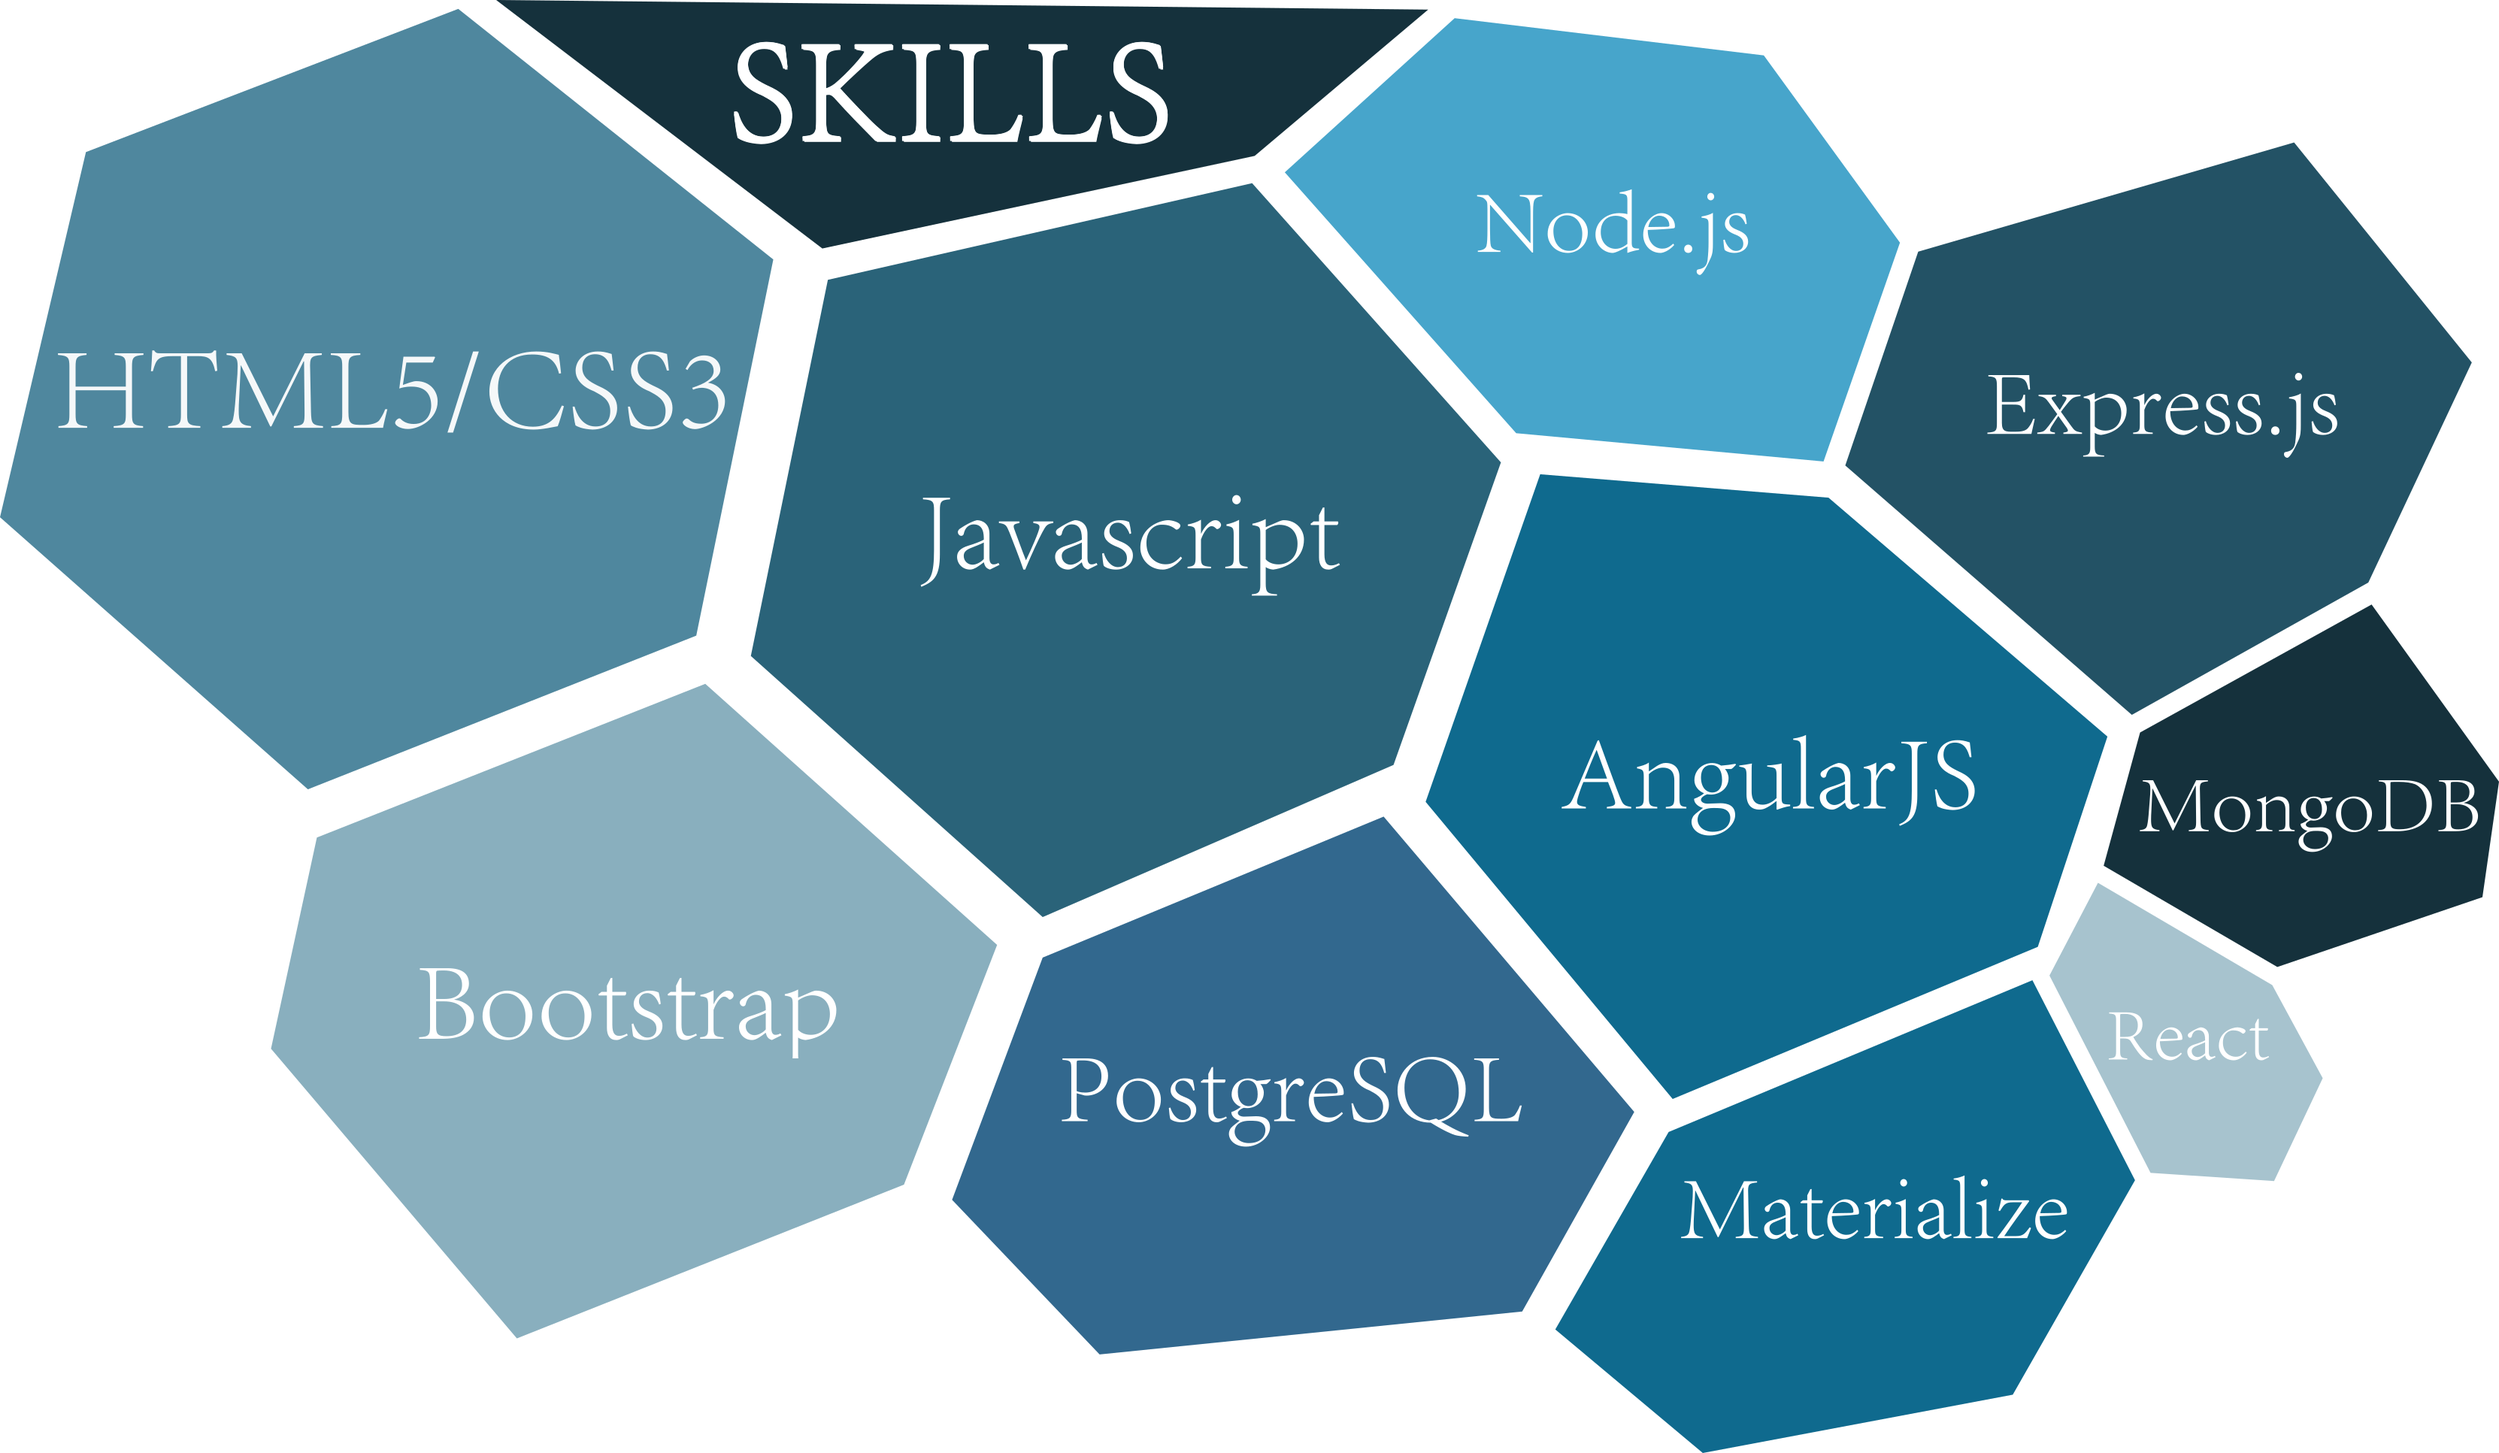
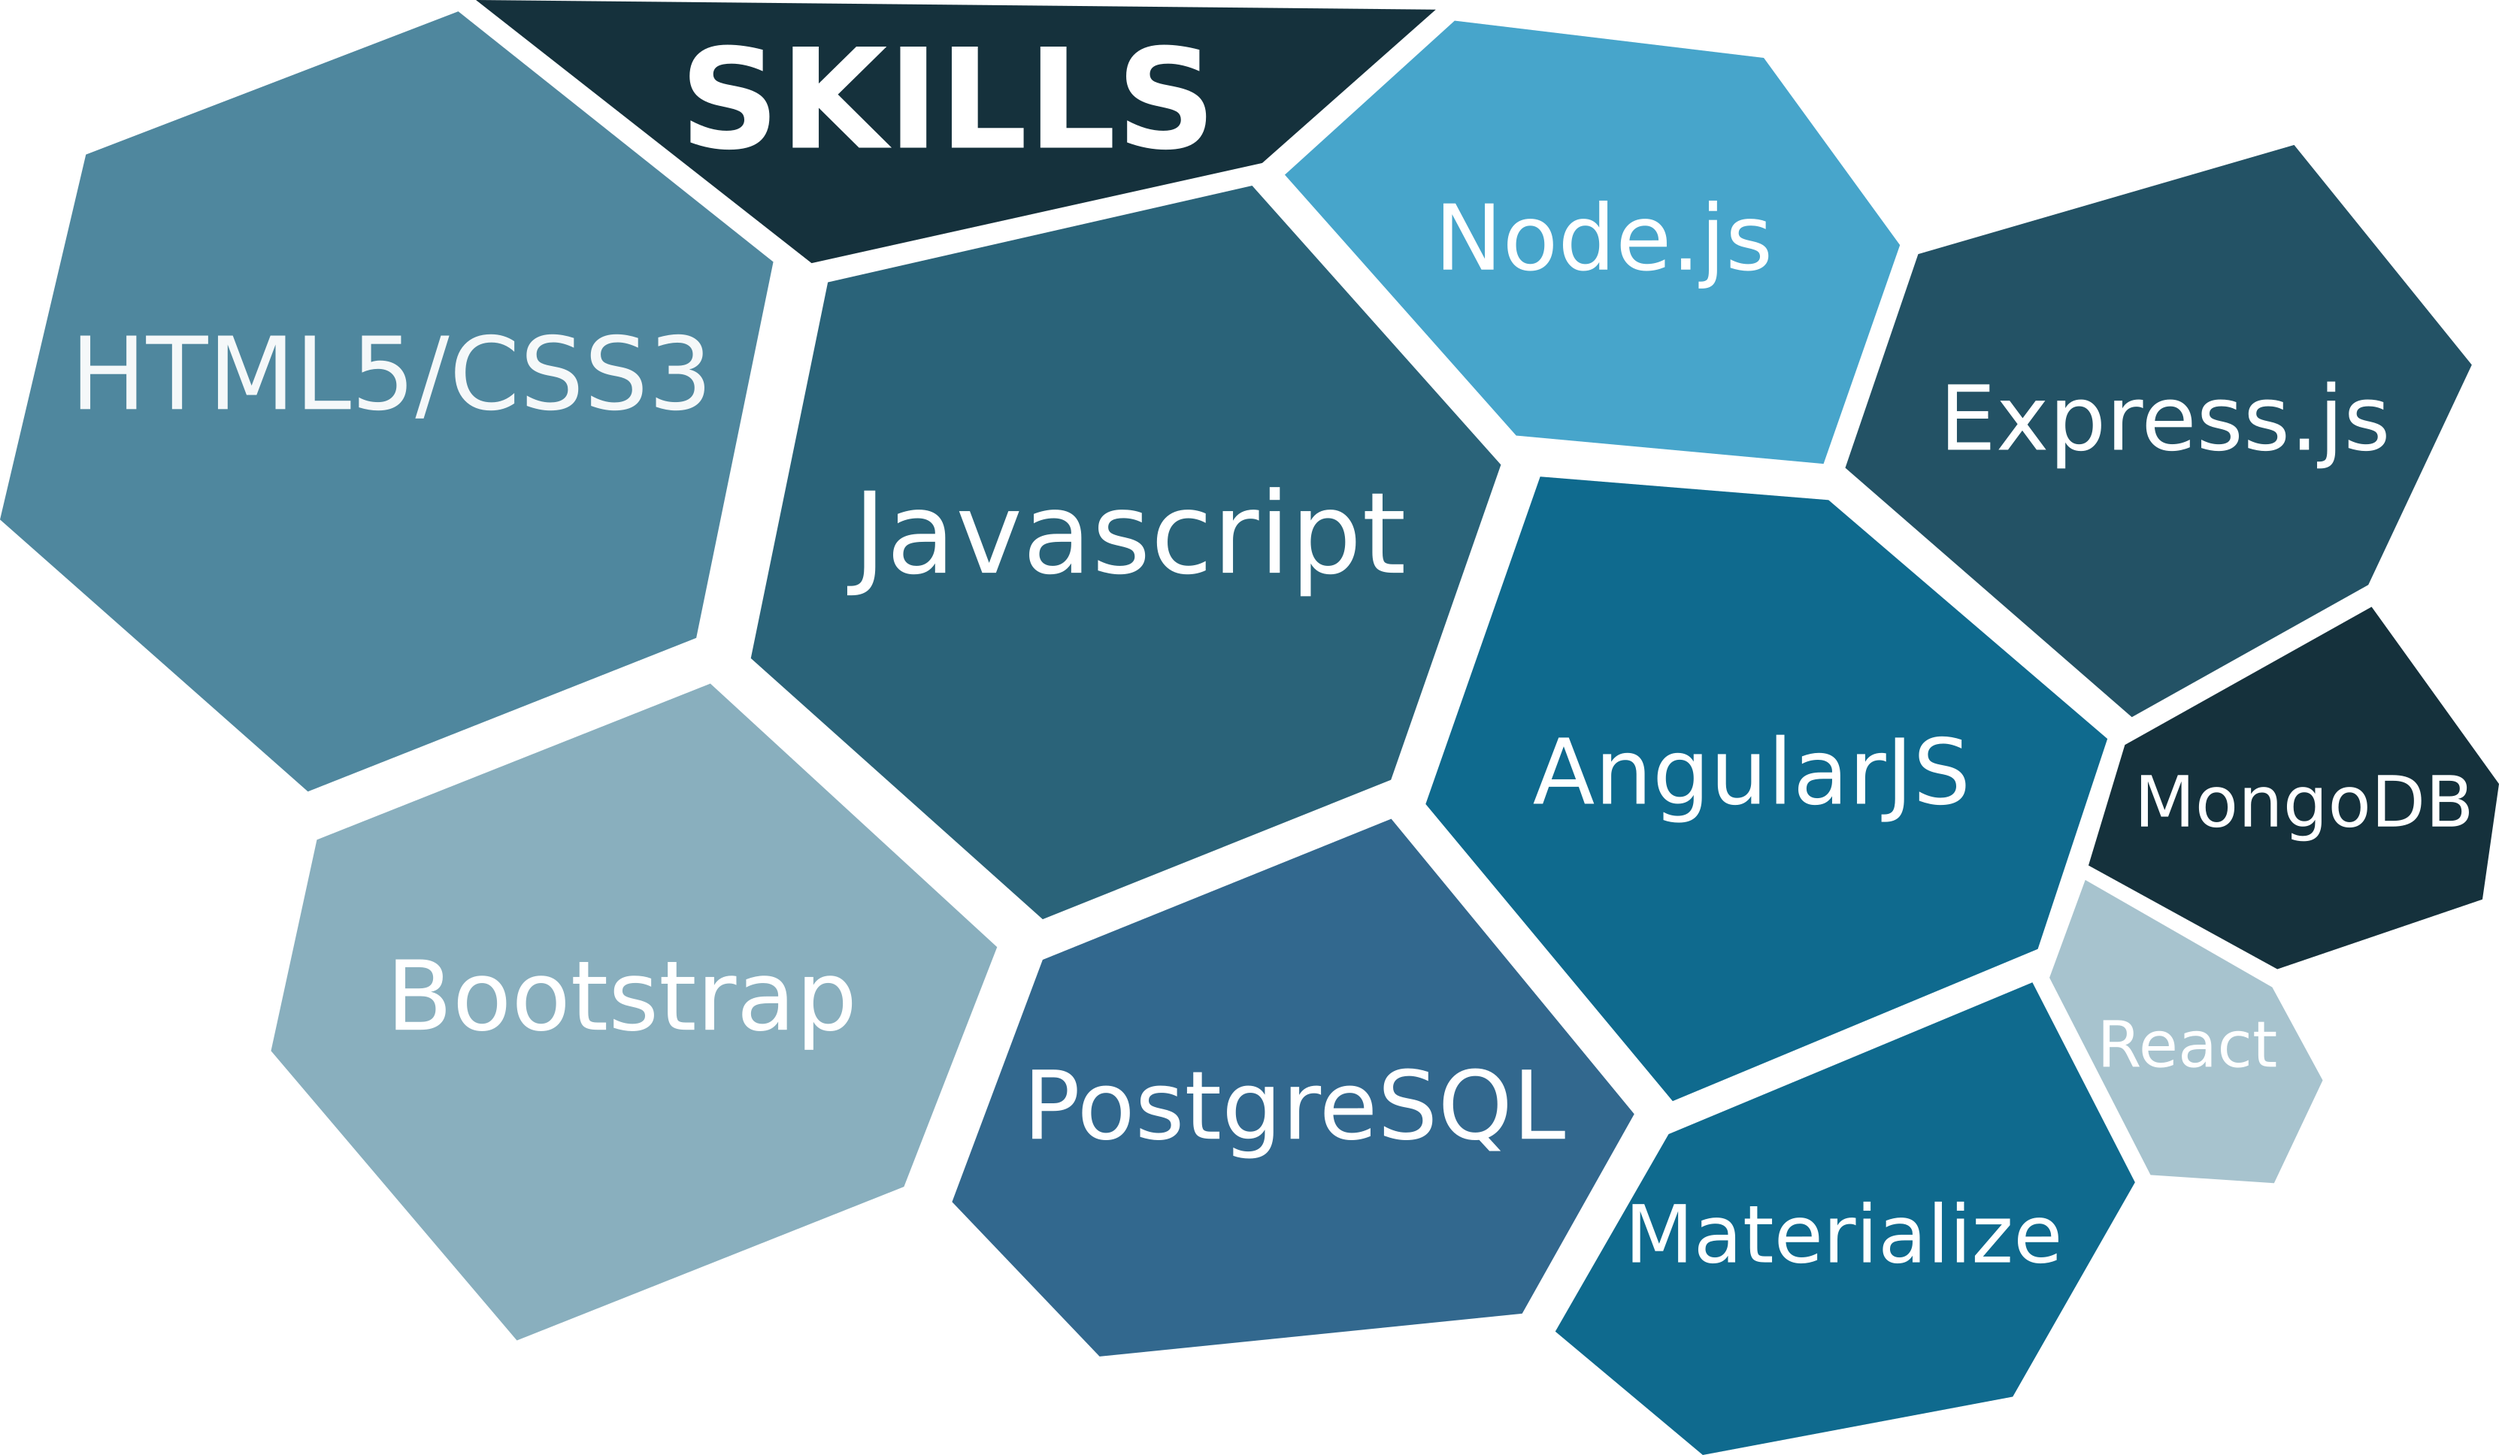
xs devices are looking pretty good for the time being I am going to move up in sizes until I have something to share with the world

diff --git a/index.html b/index.html
@@ -13,28 +13,31 @@
   <link rel="stylesheet" href="https://maxcdn.bootstrapcdn.com/bootstrap/3.3.7/css/bootstrap.min.css">
   <link rel="stylesheet" href="css/index.css">
   <link rel="shortcut icon" type="image/png" href="images/portfolio-favicon.ico"/>
-  <link href="https://fonts.googleapis.com/css?family=Cormorant+Garamond|Gentium+Basic|Rubik|Taviraj|Trirong|Work+Sans" rel="stylesheet">
+  <link href="https://fonts.googleapis.com/css?family=Nunito|Alegreya" rel="stylesheet">
   <title>Pestridge Designs</title>
 </head>
 <body>
   <div id="body-background">
       <div id="header-container" class="row">
-        <img id="headshot" src="https://avatars2.githubusercontent.com/u/18041727?v=3&u=d38740d57267f3debf02e29a67c6303978b9bee3&s=400" alt="Matt's Headshot">
+        <img id="headshot-desktop" src="https://avatars2.githubusercontent.com/u/18041727?v=3&u=d38740d57267f3debf02e29a67c6303978b9bee3&s=400" alt="Matt's Headshot">
+        <img id="headshot-mobile" src="images/headshot-mobile.png" alt="Matt's Headshot">
         <div id="name-banner-container">
-          <h1 id="name-title">Hello, I'm Matt Pestridge</h1>
+          <h1 id="name">Hello, I'm Matt Pestridge</h1>
           <h1 id="occupation-title">Full Stack Web Developer</h1>
         </div>
-        <img id="skills-image-mobile" class="col-12 col-sm-12 text-center" src="images/skills-list-mobile.png" alt="Skills List: HTML5/CSS, Javascript, Bootstrap, PostgreSQL, AngularJS, Express.js, Node.js, Materialize, MongoDB, React">
         <div id="bio-info" class="col-12 col-sm-4 col-md-4 col-lg-5 col-xl-5">
-          <h2 class="headline-text text-center">About Me</h2>
-          <p class="text-center"><em>I'm a learning and growing Full Stack Web Developer commited to creating intuative and creative websites and web applications</em></p>
+          <div class="section-title-container row">
+            <h2 class="section-title text-center">ABOUT ME</h2>
+          </div>
+          <p class="text-center"><em>I'm a learning and growing Full Stack Web Developer commited to creating intuitive and creative websites and web applications</em></p>
         </div>
+        <img id="skills-image-mobile" class="col-12 col-sm-12 text-center" src="images/skills-list-mobile.png" alt="Skills List: HTML5/CSS, Javascript, Bootstrap, PostgreSQL, AngularJS, Express.js, Node.js, Materialize, MongoDB, React">
         <img id="skills-image-desktop" class="align-self-end" src="images/skills-list-desktop.png" alt="Skills List: HTML5/CSS, Javascript, Bootstrap, PostgreSQL, AngularJS, Express.js, Node.js, Materialize, MongoDB, React">
       </div>
 <!-- PROJECTS SECTION -->
       <div id="projects-section-container">
         <div class="section-title-container row">
-          <h1 class="section-title text-center">Projects</h1>
+          <h1 class="section-title text-center">PROJECTS</h1>
         </div>
         <div id="project-row-1" class="row">
           <div class="project-image-container col-12 col-sm-6 col-sm-push-6 col-med-6 col-lg-6 col-xl-6">
@@ -47,7 +50,7 @@
               Enhance Life Plan helps user set goals for their life based on their current circumstances.</p>
 
               <p>
-                <ul>
+                <ul class="list-items">
                   <li><em><b>Technologies:</b></em> Angular, Bootstrap, MongoDB, Native HTML5, Native CSS3</li>
                   <li>Setup User Authorization</li>
                 </ul>
@@ -66,7 +69,7 @@
               Re:Note allows a user to register, login, create, edit, update, store, and organize markdown notes.</p>
 
               <p>
-                <ul>
+                <ul class="list-items">
                   <li><em><b>Technologies:</b></em> Materialize, Jquery, KNEXjs, Node.js, Express, Native HTML5, Native CSS3</li>
                   <li>The markdown editor API was conatinerd by an iFrame</li>
                   <li>I was a main contributor for front end design and layout</li>
@@ -86,7 +89,7 @@
               Grubbrew is a web app that returns a list of recipes based on a user input list of ingredients.</p>
 
               <p>
-                <ul>
+                <ul class="list-items">
                   <li><em><b>Technologies:</b></em> Materialize, Jquery, Native HTML5, Native CSS3</li>
                   <li>Utilized the Spoonacular API</li>
                 </ul>

diff --git a/css/index.css b/css/index.css
@@ -1,6 +1,6 @@
 body {
   background-color: #191411;
-  font-family: 'Cormorant Garamond', serif;
+  font-family: 'Nunito', sans-serif;
 }
 
 a {
@@ -8,9 +8,12 @@ a {
 }
 
 #bio-info {
+  background: linear-gradient(#2B2B2A, #222221);
+  box-shadow: 0px 5px 15px #222221;
   color: #FFFFFF;
   font-size: 1.75rem;
-  margin-top: -30px;
+  margin-top: 10px;
+  padding: 1px 0;
   position: relative;
 }
 
@@ -20,47 +23,60 @@ a {
 }
 
 #header-container {
-  background-color: #2B2B2A;
+  /* background-color: #2B2B2A; */
+  /* background: linear-gradient(#2B2B2A, #222221); */
+  /* box-shadow: 0px 0px 15px #222221; */
   height: 100%;
   position: relative;
 }
 
 .headline-text {
   color: #32748E;
-  font-size: 2.7rem;
+  font-size: 2rem;
   font-weight: 500;
 }
 
-#headshot {
+#headshot-desktop {
+  display: none;
   clip-path: polygon(24% 6%, 100% 0, 100% 78%, 6% 93%, 0 84%, 0 34%);
   height: 120px;
-  margin: 20px 0 0 0;
+  margin: 20px 0 0 -35px;
   position: absolute;
   z-index: 99;
 }
 
+#headshot-mobile {
+  height: 120px;
+  margin: 10px 0 0 0;
+  position: absolute;
+  z-index: 99;
+}
+
+.list-items {
+  font-family: 'Alegreya', serif;;
+}
+
 #name-banner-container {
-  background-color: #32748E;
+  background: linear-gradient(#32748E, #285c71);
   clip-path: polygon(0 15%, 100% 0, 100% 65%, 0 100%);
-  display: relative;
   height: 90px;
   margin: 20px 0 0 0;
   max-width: 2000px;
+  position: relative;
+  z-index: 98;
 }
 
-#name-title {
-  color: #454449;
-  font-family: 'Trirong', serif;
-  font-size: 2rem;
-  margin: 15px 0 0 125px;
+#name {
+  color: #FFFFFF;
+  font-size: 2.25rem;
+  margin: 15px 0 0 115px;
   position: absolute;
   transform: rotate(-2.5deg);
   z-index: 100;
 }
 
 #occupation-title {
-  color: #FFFFFF;
-  font-family: 'Work Sans', sans-serif;
+  color: #869193;
   font-size: 1.75rem;
   font-weight: 100;
   margin: 40px 0 0 130px;
@@ -75,6 +91,7 @@ a {
 }
 
 .project-image-container {
+  margin-top: 10px;
   padding: 0;
 }
 
@@ -102,7 +119,8 @@ a {
 }
 
 #project-row-2 {
-  background-color: #2B2B2A;
+  background: linear-gradient(#2B2B2A, #222221);
+  box-shadow: 0px 5px 15px #222221;
   margin: 0;
   padding: 0;
   z-index: 100;
@@ -117,13 +135,15 @@ a {
   color: #FFFFFF;
   font-size: 1.75rem;
   margin: 0 10px;
+  padding: 5px 0;
 }
 
 .project-title {
   color: #32748E;
   /* display: inline-block; */
-  font-size: 2.7rem;
+  font-size: 2.25rem;
   margin: 0 10px;
+  padding: 15px 0 5px 0;
   /* text-align: center; */
 }
 
@@ -140,15 +160,16 @@ a {
   clip-path: polygon(0 0, 100% 0, 98% 83%, 83% 100%, 4% 99%);
   color: #FFFFFF;
   display: inline-block;
-  font-family: 'Taviraj', serif;
-  font-size: 2.7rem;
+  font-size: 2.25rem;
+  font-weight: bold;
+  letter-spacing: .1rem;
   margin: 10px 0;
   text-align: center;
   width: 175px;
 }
 
 .section-title-container {
-  padding: 0;
+  padding: 10px 0;
   text-align: center;
   width: 100%;
 }
@@ -163,10 +184,10 @@ a {
 }
 
 #skills-image-mobile {
-  height: 430px;
+  height: 350px;
   left: 50%;
-  margin: -35px 0 0 -165px;
-  padding: 12px 0;
+  margin: 10px 0 0 -140px;
+  padding: 0;
   position: relative;
   visibility: visible;
 }
@@ -253,6 +274,10 @@ a {
     font-size: 2.5rem;
     padding: 20px;
     top: 280px;
+  }
+
+  #headshot {
+    clip-path: polygon(24% 6%, 100% 0, 100% 78%, 6% 93%, 0 84%, 0 34%);
   }
 
   #name-title {
@@ -377,10 +402,5 @@ black2: #14100E
 */
 
 /* fonts:
-font-family: 'Cormorant Garamond', serif;
-font-family: 'Trirong', serif;
-font-family: 'Rubik', sans-serif;
-font-family: 'Work Sans', sans-serif;
-font-family: 'Taviraj', serif;
-font-family: 'Gentium Basic', serif;
+
 */
